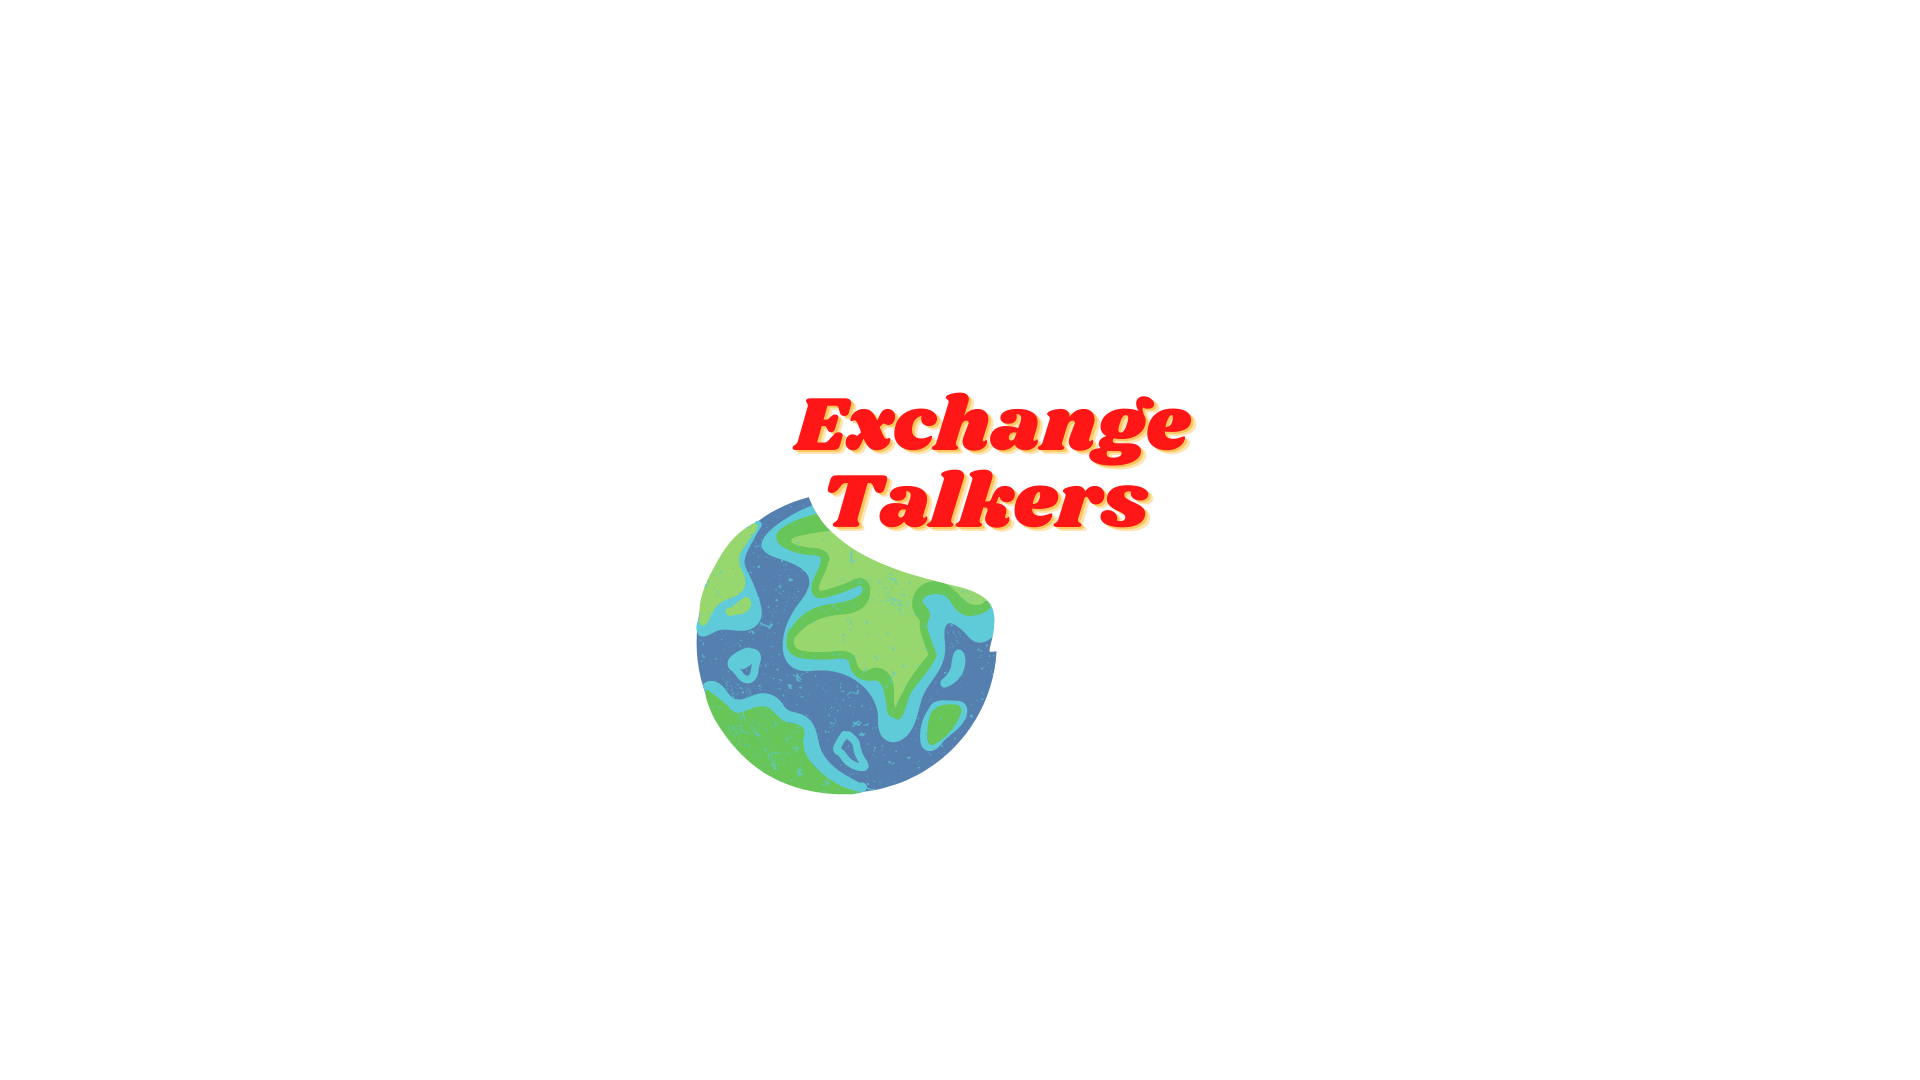
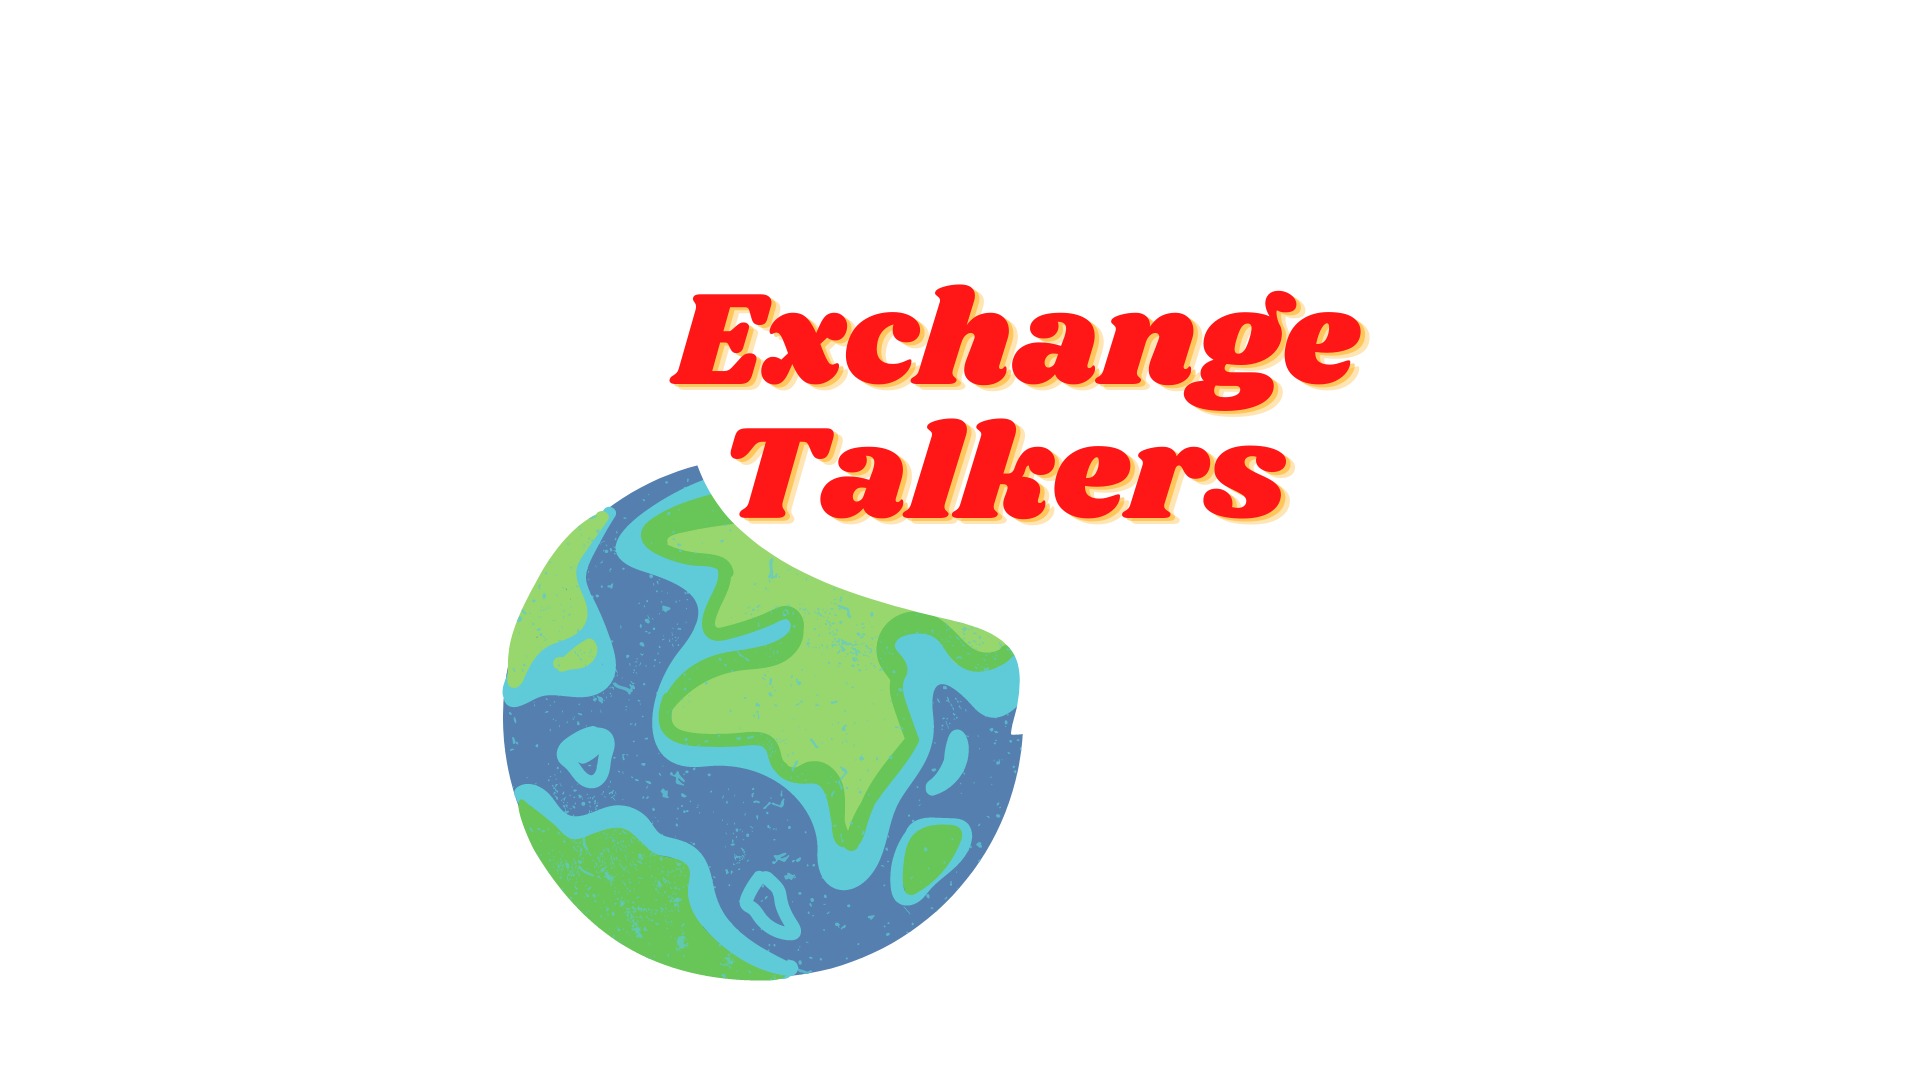
Add files via upload

Changed region(s): [[0.25, 0.2444, 0.7188, 0.9167]]

diff --git a/site.da.bianca.html b/site.da.bianca.html
@@ -7,7 +7,8 @@
      </head>
     <body>
 <header>
-    <img id="foto.1" src="download-removebg-preview.png"> Exchange Talkers
+    <img id="logo" src="Design sem nome.png"> 
+    <img id="foto" src="fotos.png">
 </header>
 <div>
 <h1> </h1>
